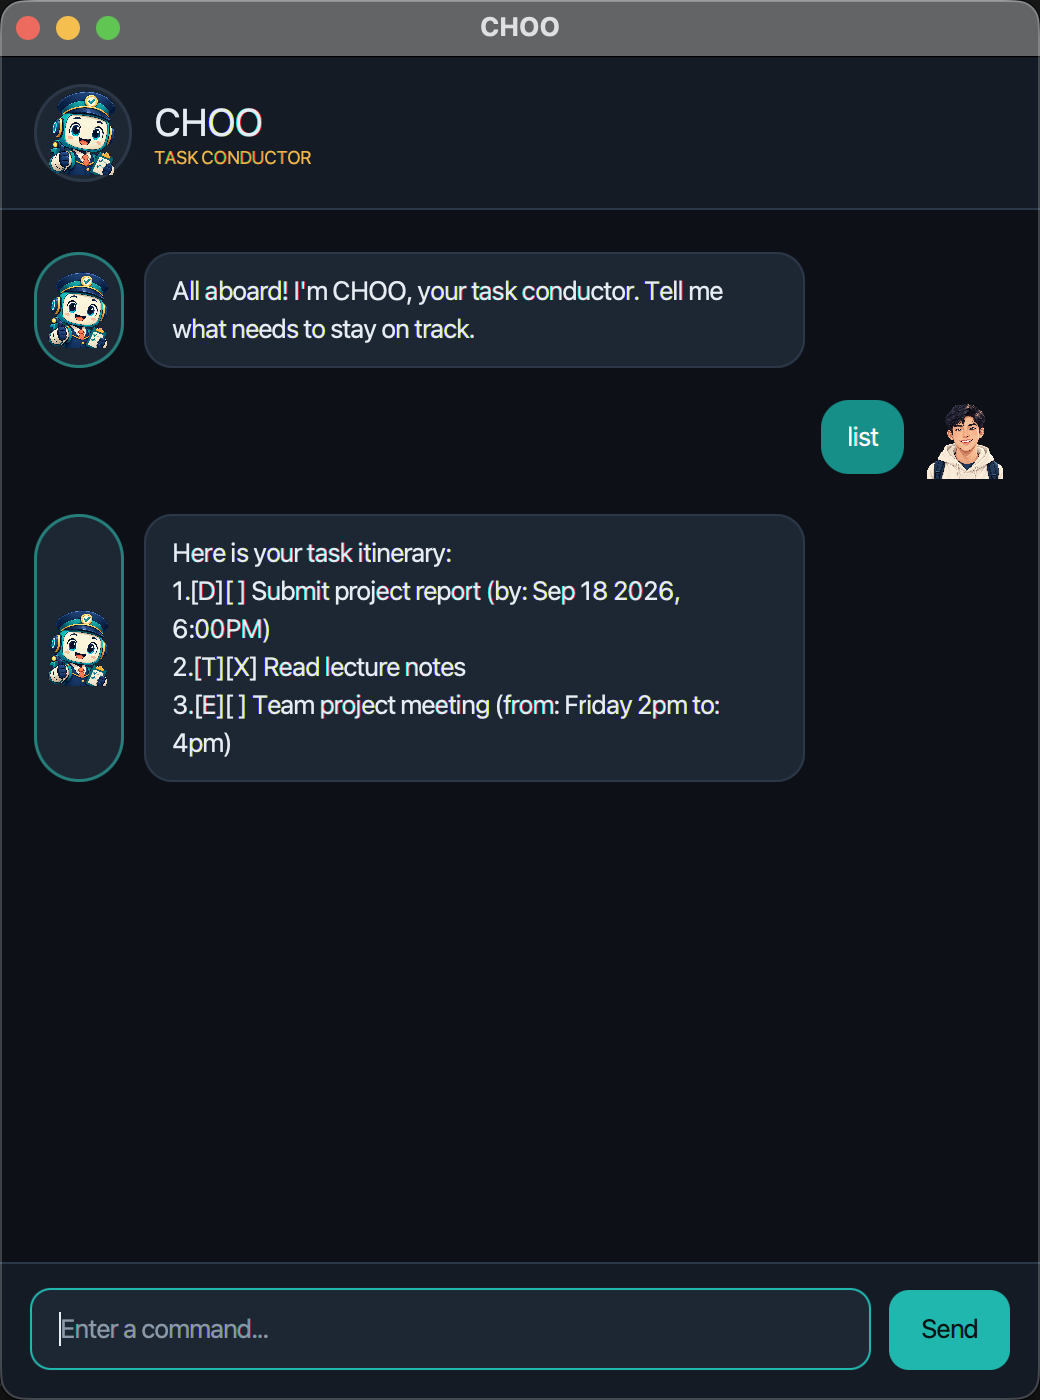
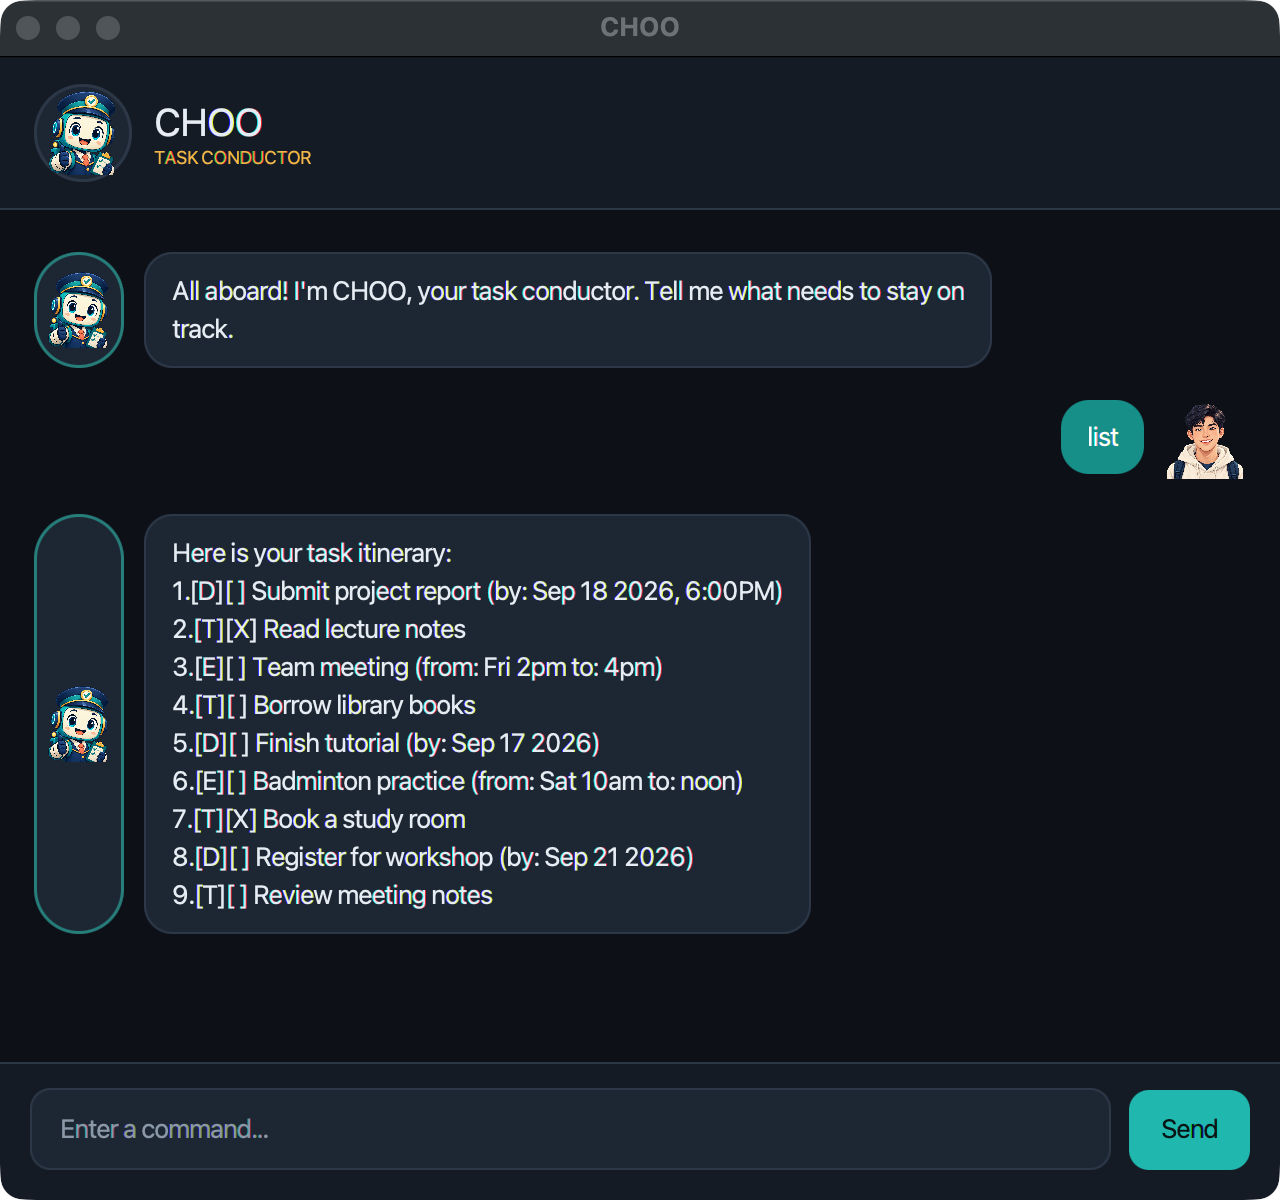
Refresh the product screenshot
The product screenshot leaves a large blank area and wraps task times.

Show nine realistic tasks in a compact window with complete task lines.
Update the capture note to describe the refreshed screenshot.

diff --git a/test/release-smoke-test.md b/test/release-smoke-test.md
@@ -37,7 +37,9 @@ After restart, the final task list was:
 3.[E][ ] Team project meeting (from: Friday 2pm to: 4pm)
 ```
 
-`docs/Ui.png` captures this complete GUI window, including the title bar.
+`docs/Ui.png` was refreshed on September 15 using a separate sample list of
+nine realistic tasks in a 640-by-600-point window. All task entries fit on
+one line, and the capture includes the complete GUI and title bar.
 It is an actual screen capture, not a mockup or edited rendering.
 
 ## Automated checks and limitations
